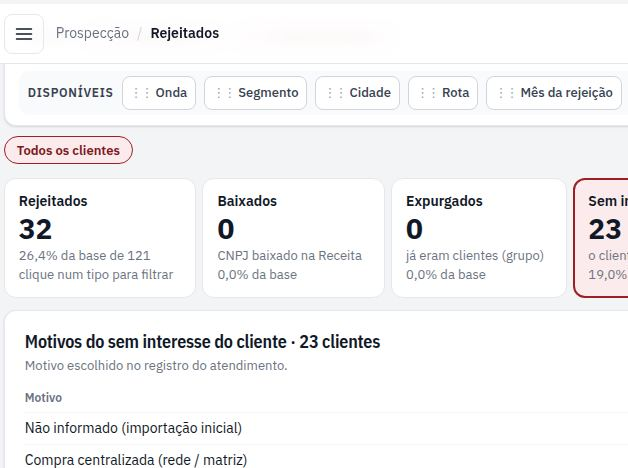
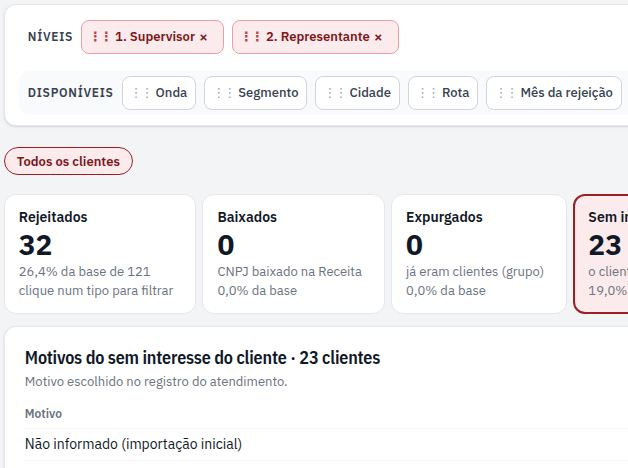
Rejeitados: tela lê só contagens, sem lista; botão Excel do que está na tela, com dados cadastrais completos e uma aba por tipo
- consultaResumoRejeitados (por chave dos níveis, tipo, motivo e mês) para a tela; detalhe só ao exportar
- Excel: rejeição, motivo, observação, data e cadastro completo (endereço, bairro, CEP, telefone, representante, supervisor...)
- Uma aba por tipo; a aba Exportar da tela Importações usa o mesmo Excel
- docs/03 §16, ajuda e testes

diff --git a/web/js/telas/rejeitados.js b/web/js/telas/rejeitados.js
@@ -1,18 +1,17 @@
 // Rejeitados: baixados, expurgados e sem interesse (do cliente e do representante), com hierarquia de níveis, motivos e
-// exportação em Excel por tipo. Só gerente e administrador. docs/03 §16
-// Lê os rejeitados e o resumo da carteira uma vez (em cache); níveis, cards, busca e exportação só redesenham no navegador.
+// o botão Excel do que está na tela. Só gerente e administrador. docs/03 §16
+// A tela lê só as contagens (por chave dos níveis, tipo, motivo e mês) e o resumo da carteira, em cache; os dados de cada
+// cliente são lidos só ao exportar.
 import { bancoApp, lerComCache } from '../db.js';
 import { consultaResumo } from '../../shared/explorar.mjs';
-import { buscarRejeitados, consultaRejeitados, contarMotivos, montarArvoreRejeitados, NIVEIS_REJEITADOS, NOME_TIPO_REJEICAO, prepararRejeitado, SELO_TIPO_REJEICAO, TIPOS_REJEICAO } from '../../shared/rejeitados.mjs';
-import { podeTela } from '../../shared/perfis.mjs';
-import { h, montar, formatar, selo, semRolagem } from '../ui.js';
-import { blocoNiveis, razaoSocial, tabelaPedidos } from './_pedidos.js';
+import { consultaResumoRejeitados, contarMotivos, montarArvoreRejeitados, naLinha, NIVEIS_REJEITADOS, NOME_TIPO_REJEICAO, prepararRejeitado, TIPOS_REJEICAO } from '../../shared/rejeitados.mjs';
+import { h, montar, formatar, comEspera, aviso, semRolagem } from '../ui.js';
+import { blocoNiveis } from './_pedidos.js';
+import { exportarRejeitados } from './_rejeitados-excel.js';
 
 const CHAVE_NIVEIS = 'germani.rejeitadosNiveis';
-const LIMITE_LISTA = 300;
 const n0 = (x) => formatar.numero(Math.round(Number(x) || 0));
 const pct = (a, b) => (b ? `${((a / b) * 100).toFixed(1).replace('.', ',')}%` : '—');
-const CLASSE_SELO = { baixado: '', expurgado: 'investimento', cliente: 'erro', representante: 'alerta' };
 const DETALHE = { baixado: 'CNPJ baixado na Receita', expurgado: 'já eram clientes (grupo)', cliente: 'o cliente recusou', representante: 'o representante não vai trabalhar' };
 
 function lerNiveis(possiveis) {
@@ -22,15 +21,19 @@ function lerNiveis(possiveis) {
 
 export async function render(conteudo, { usuario }) {
   const db = await bancoApp();
-  const [linhas, base] = (await Promise.all([lerComCache(db, consultaRejeitados(), 300), lerComCache(db, consultaResumo({ usuario }), 300)])).map((r) => r.rows);
+  const [linhas, base] = (await Promise.all([lerComCache(db, consultaResumoRejeitados(), 300), lerComCache(db, consultaResumo({ usuario }), 300)])).map((r) => r.rows);
   const clientes = linhas.map(prepararRejeitado);
   const possiveis = Object.keys(NIVEIS_REJEITADOS);
   const nome = (n) => NIVEIS_REJEITADOS[n].nome;
-  const estado = { niveis: lerNiveis(possiveis), abertos: new Set(['']), sel: '', editarNiveis: false, tipo: 'todos', busca: '' };
+  const estado = { niveis: lerNiveis(possiveis), abertos: new Set(['']), sel: '', editarNiveis: false, tipo: 'todos' };
   const area = h('div', { id: 'rejeitados', class: 'ped-exp acf-exp rej-exp' });
   const mudarNiveis = (n) => { estado.niveis = n; estado.abertos = new Set(['']); estado.sel = ''; try { localStorage.setItem(CHAVE_NIVEIS, JSON.stringify(n)); } catch { /* só nesta visita */ } desenhar(); };
-  const campoBusca = h('input', { type: 'search', id: 'busca-rejeitados', 'aria-label': 'Buscar', placeholder: 'Cliente, CNPJ, cidade ou representante',
-    oninput: () => { estado.busca = campoBusca.value; desenhar(); campoBusca.focus(); } });
+  // Excel do que está na tela: a linha escolhida na hierarquia e o tipo do card (Rejeitados = os quatro tipos, uma aba cada)
+  const botaoExcel = h('button', { type: 'button', id: 'excel-rejeitados', onclick: () => comEspera(botaoExcel, async () => {
+    const tipos = estado.tipo === 'todos' ? [...TIPOS_REJEICAO] : [estado.tipo];
+    const n = await exportarRejeitados(db, { tipos, filtro: (l) => naLinha(escolhido.caminho, l) });
+    aviso(`Excel gerado: ${n0(n)} clientes.`);
+  }) });
 
   function cards(e) {
     const c = e.cont;
@@ -71,23 +74,7 @@ export async function render(conteudo, { usuario }) {
     { cortados: '.exp-linha > .num' });
   }
 
-  // exportar fica na tela Importações (aba Exportar), junto com a base e os pedidos
-  const atalhoExportar = () => (podeTela(usuario, 'exportar')
-    ? h('p', { class: 'ajuda', id: 'rej-atalho-exportar', style: 'margin:0' }, 'Para baixar esta base em Excel, por tipo: ', h('a', { href: '#/importacoes?aba=exportar' }, 'Importações › Exportar'), '.') : null);
   let escolhido = null;
-
-  function lista(e) {
-    const vistos = buscarRejeitados(e.clientes.filter((l) => estado.tipo === 'todos' || l.tipo === estado.tipo), estado.busca)
-      .sort((a, b) => String(b.data ?? '').localeCompare(String(a.data ?? '')) || String(a.razao_social).localeCompare(String(b.razao_social), 'pt-BR'));
-    const colunas = [{ titulo: 'Razão social', valor: (l) => razaoSocial({ codigo: l.codigo_cliente_erp, razao: l.razao_social, doc: l.cnpj, prospectId: l.id }), classe: 'rz' },
-      { titulo: 'Tipo', valor: (l) => selo(SELO_TIPO_REJEICAO[l.tipo], CLASSE_SELO[l.tipo]), classe: 'cen' }, { titulo: 'Motivo', valor: (l) => l.motivo },
-      { titulo: 'Data', valor: (l) => formatar.data(l.data) || '—', classe: 'cen' }, { titulo: 'Representante', valor: (l) => [l.vendedor_codigo, l.vendedor_nome].filter(Boolean).join(' - ') },
-      { titulo: 'Cidade', valor: (l) => (l.cidade ? `${l.cidade}${l.uf ? '/' + l.uf : ''}` : '—'), classe: 'cen' }, { titulo: 'Onda', valor: (l) => l.onda || '—', classe: 'cen' }];
-    return h('div', { class: 'cartao' },
-      h('div', { class: 'ped-lista-topo' }, h('h2', { id: 'titulo-rejeitados' }, `${estado.tipo === 'todos' ? 'Todos os rejeitados' : NOME_TIPO_REJEICAO[estado.tipo]} · ${e.rotulo} (${n0(vistos.length)})`), campoBusca),
-      tabelaPedidos(colunas, vistos.slice(0, LIMITE_LISTA), { id: 'lista-rejeitados', vazio: estado.busca ? `Nada encontrado para "${estado.busca}".` : 'Nenhum cliente aqui.' }),
-      vistos.length > LIMITE_LISTA ? h('p', { class: 'ajuda', style: 'margin:12px 0 0' }, `Mostrando ${n0(LIMITE_LISTA)} de ${n0(vistos.length)}. Escolha uma linha na hierarquia para ver menos, ou exporte.`) : null);
-  }
 
   function desenhar() {
     const arvore = montarArvoreRejeitados({ clientes, base, niveis: estado.niveis, abertos: estado.abertos });
@@ -96,7 +83,11 @@ export async function render(conteudo, { usuario }) {
     const migalhas = h('nav', { class: 'exp-caminho', 'aria-label': 'Linha escolhida' }, etapas.flatMap((n, i) => [
       h('button', { type: 'button', class: n.caminho === escolhido.caminho ? 'atual' : '', title: n.rotulo, onclick: () => { estado.sel = n.caminho; desenhar(); } }, n.profundidade ? `${nome(n.nivel)}: ${n.rotulo}` : n.rotulo),
       i < etapas.length - 1 ? h('span', { class: 'sep', 'aria-hidden': 'true' }, '›') : null]));
-    montar(area, ...blocoNiveis({ estado, possiveis, nome, mudarNiveis, desenhar }), migalhas, cards(escolhido), motivos(escolhido), arvoreNaTela(arvore, escolhido), atalhoExportar(), lista(escolhido));
+    const qtd = estado.tipo === 'todos' ? escolhido.cont.total : escolhido.cont[estado.tipo];
+    botaoExcel.disabled = !qtd;
+    botaoExcel.textContent = `Excel · ${n0(qtd)} ${qtd === 1 ? 'cliente' : 'clientes'}`;
+    botaoExcel.title = `${estado.tipo === 'todos' ? 'Os quatro tipos, uma aba cada' : NOME_TIPO_REJEICAO[estado.tipo]} · ${escolhido.rotulo}`;
+    montar(area, ...blocoNiveis({ estado, possiveis, nome, mudarNiveis, desenhar }), h('div', { class: 'rej-barra' }, migalhas, botaoExcel), cards(escolhido), motivos(escolhido), arvoreNaTela(arvore, escolhido));
   }
 
   desenhar();

diff --git a/web/js/telas/exportar.js b/web/js/telas/exportar.js
@@ -2,7 +2,8 @@
 // Cada exportação lê o banco só ao clicar. docs/03 §17
 import { bancoApp, lerComCache } from '../db.js';
 import { consultaExportarBase } from '../../shared/administracao.mjs';
-import { consultaRejeitados, NOME_TIPO_REJEICAO, paraExportar, prepararRejeitado, TIPOS_REJEICAO } from '../../shared/rejeitados.mjs';
+import { consultaResumoRejeitados, NOME_TIPO_REJEICAO, prepararRejeitado, TIPOS_REJEICAO } from '../../shared/rejeitados.mjs';
+import { exportarRejeitados } from './_rejeitados-excel.js';
 import { consultaPedidos, rotuloRepresentante } from '../../shared/pedidos.mjs';
 import { hojeSaoPaulo } from '../../shared/datas.mjs';
 import { h, montar, formatar, comEspera, aviso } from '../ui.js';
@@ -13,39 +14,30 @@ const n0 = (x) => formatar.numero(Math.round(Number(x) || 0));
 const representante = (codigo, nome) => [codigo, nome].filter(Boolean).join(' - ');
 const NOME_TIPO_PEDIDO = { venda: 'Venda', investimento: 'Bonificação', ignorar: 'Não considerado' };
 
-/** Colunas do Excel de rejeitados (também usadas pela tela Rejeitados para contar). */
-export const COLUNAS_REJEITADOS = [
-  { titulo: 'Tipo', valor: (l) => NOME_TIPO_REJEICAO[l.tipo], largura: 30 }, { titulo: 'Motivo', valor: (l) => l.motivo, largura: 40 }, { titulo: 'Data', valor: (l) => formatar.data(l.data), largura: 12 },
-  { titulo: 'Código', valor: (l) => l.codigo_cliente_erp ?? '', largura: 10 }, { titulo: 'Razão social', valor: (l) => l.razao_social, largura: 40 }, { titulo: 'CNPJ', valor: (l) => documento(l.cnpj), largura: 20 },
-  { titulo: 'Telefone', valor: (l) => l.telefone ?? '', largura: 16 }, { titulo: 'Cidade', valor: (l) => l.cidade, largura: 22 }, { titulo: 'UF', valor: (l) => l.uf, largura: 6 },
-  { titulo: 'Onda', valor: (l) => l.onda, largura: 8 }, { titulo: 'Segmento', valor: (l) => l.tipologia_gtm, largura: 22 },
-  { titulo: 'Representante', valor: (l) => representante(l.vendedor_codigo, l.vendedor_nome), largura: 30 }, { titulo: 'Supervisor', valor: (l) => l.supervisor_nome ?? '', largura: 24 },
-];
-
 export async function render(conteudo, { usuario }) {
   const db = await bancoApp();
-  const clientes = (await lerComCache(db, consultaRejeitados(), 300)).rows.map(prepararRejeitado);
+  // contagens para os tipos e os filtros (leitura leve); os dados de cada cliente são lidos só ao exportar
+  const clientes = (await lerComCache(db, consultaResumoRejeitados(), 300)).rows.map(prepararRejeitado);
   const filtro = { tipos: new Set(TIPOS_REJEICAO), supervisor: '', representante: '', onda: '' };
   const unicos = (chave, rotulo) => [...new Map(clientes.filter((l) => l[chave] != null && l[chave] !== '').map((l) => [String(l[chave]), rotulo(l)])).entries()].sort((a, b) => a[1].localeCompare(b[1], 'pt-BR', { numeric: true }));
   const selecao = (id, rotulo, chave, opcoes, todos) => h('div', { class: 'campo' }, h('label', { for: id }, rotulo),
     h('select', { id, onchange: (ev) => { filtro[chave] = ev.target.value; desenharRejeitados(); } }, h('option', { value: '' }, todos), opcoes.map(([v, t]) => h('option', { value: v }, t))));
-  const filtrados = () => paraExportar(clientes, [...filtro.tipos]).filter((l) => (!filtro.supervisor || String(l.supervisor_id) === filtro.supervisor)
-    && (!filtro.representante || String(l.vendedor_id) === filtro.representante) && (!filtro.onda || l.onda === filtro.onda));
+  const passa = (l) => (!filtro.supervisor || String(l.supervisor_id) === filtro.supervisor) && (!filtro.representante || String(l.vendedor_id) === filtro.representante) && (!filtro.onda || l.onda === filtro.onda);
+  const soma = (ls) => ls.reduce((t, l) => t + l.qtd, 0);
 
   // Rejeitados: um ou mais tipos, com supervisor, representante e onda
   const tiposRej = h('div', { class: 'rej-tipos' });
+  // dados cadastrais completos, tipo, motivo e observação; com mais de um tipo, uma aba para cada
   const botaoRej = h('button', { type: 'button', id: 'exportar-rejeitados', onclick: () => comEspera(botaoRej, async () => {
-    const lista = filtrados();
-    await baixarXlsx(`rejeitados-${hojeSaoPaulo()}.xlsx`, COLUNAS_REJEITADOS, lista, { aba: 'Rejeitados' });
-    aviso(`Rejeitados exportados: ${n0(lista.length)} clientes.`);
+    const n = await exportarRejeitados(db, { tipos: TIPOS_REJEICAO.filter((t) => filtro.tipos.has(t)), filtro: passa });
+    aviso(`Rejeitados exportados: ${n0(n)} clientes.`);
   }) });
   function desenharRejeitados() {
-    const contar = (t) => clientes.filter((l) => l.tipo === t && (!filtro.supervisor || String(l.supervisor_id) === filtro.supervisor)
-      && (!filtro.representante || String(l.vendedor_id) === filtro.representante) && (!filtro.onda || l.onda === filtro.onda)).length;
+    const contar = (t) => soma(clientes.filter((l) => l.tipo === t && passa(l)));
     montar(tiposRej, TIPOS_REJEICAO.map((t) => h('label', { class: 'ped-opcao' },
       h('input', { type: 'checkbox', dados: { tipo: t }, checked: filtro.tipos.has(t), onchange: (ev) => { if (ev.target.checked) filtro.tipos.add(t); else filtro.tipos.delete(t); desenharRejeitados(); } }),
       h('span', {}, `${NOME_TIPO_REJEICAO[t]} (${n0(contar(t))})`))));
-    const total = filtrados().length;
+    const total = soma(clientes.filter((l) => filtro.tipos.has(l.tipo) && passa(l)));
     botaoRej.disabled = !total;
     botaoRej.textContent = `Exportar Excel · ${n0(total)} clientes`;
   }
@@ -79,7 +71,7 @@ export async function render(conteudo, { usuario }) {
 
   montar(conteudo,
     h('section', { class: 'cartao exp-bloco', id: 'exportar-bloco-rejeitados' }, h('h2', {}, 'Rejeitados'),
-      h('p', { class: 'ajuda' }, 'Clientes que saíram da prospecção, por tipo. Marque um ou mais.'), tiposRej,
+      h('p', { class: 'ajuda' }, 'Clientes que saíram da prospecção, com os dados cadastrais completos, o motivo e a observação. Marque um ou mais tipos: cada tipo vai numa aba da planilha.'), tiposRej,
       h('div', { class: 'exp-filtros' },
         selecao('exportar-supervisor', 'Supervisor', 'supervisor', unicos('supervisor_id', (l) => l.supervisor_nome ?? '—'), 'Todos'),
         selecao('exportar-representante', 'Representante', 'representante', unicos('vendedor_id', (l) => representante(l.vendedor_codigo, l.vendedor_nome)), 'Todos'),

diff --git a/web/js/telas/_rejeitados-excel.js b/web/js/telas/_rejeitados-excel.js
@@ -1,0 +1,33 @@
+// Excel dos rejeitados (tela Rejeitados e aba Exportar): dados cadastrais completos, o tipo, o motivo e a observação do
+// registro, numa aba por tipo (Sem interesse do cliente numa aba, do representante em outra…). Lê o detalhe só ao exportar.
+import { lerComCache } from '../db.js';
+import { consultaRejeitados, NOME_TIPO_REJEICAO, paraExportar, prepararRejeitado, TIPOS_REJEICAO } from '../../shared/rejeitados.mjs';
+import { hojeSaoPaulo } from '../../shared/datas.mjs';
+import { formatar } from '../ui.js';
+import { baixarXlsxAbas } from '../planilhas.js';
+import { documento } from './_pedidos.js';
+
+const representante = (codigo, nome) => [codigo, nome].filter(Boolean).join(' - ');
+const COLUNAS = [
+  { titulo: 'Rejeição', valor: (l) => NOME_TIPO_REJEICAO[l.tipo], largura: 30 }, { titulo: 'Motivo', valor: (l) => l.motivo, largura: 40 },
+  { titulo: 'Observação', valor: (l) => l.observacao ?? '', largura: 40 }, { titulo: 'Data', valor: (l) => formatar.data(l.data), largura: 12 },
+  { titulo: 'Código', valor: (l) => l.codigo_cliente_erp ?? '', largura: 10 }, { titulo: 'Razão social', valor: (l) => l.razao_social, largura: 40 },
+  { titulo: 'Nome fantasia', valor: (l) => l.nome_fantasia ?? '', largura: 30 }, { titulo: 'CNPJ', valor: (l) => documento(l.cnpj), largura: 20 },
+  { titulo: 'Endereço', valor: (l) => l.endereco ?? '', largura: 40 }, { titulo: 'Bairro', valor: (l) => l.bairro ?? '', largura: 22 },
+  { titulo: 'Cidade', valor: (l) => l.cidade, largura: 22 }, { titulo: 'UF', valor: (l) => l.uf, largura: 6 }, { titulo: 'CEP', valor: (l) => l.cep ?? '', largura: 10 },
+  { titulo: 'Telefone', valor: (l) => l.telefone ?? '', largura: 16 }, { titulo: 'Segmento', valor: (l) => l.tipologia_gtm, largura: 22 },
+  { titulo: 'Onda', valor: (l) => l.onda, largura: 8 }, { titulo: 'Rota', valor: (l) => l.rota, largura: 10 }, { titulo: 'Subrota', valor: (l) => l.subrota, largura: 10 },
+  { titulo: 'Representante', valor: (l) => representante(l.vendedor_codigo, l.vendedor_nome), largura: 32 }, { titulo: 'Supervisor', valor: (l) => l.supervisor_nome ?? '', largura: 24 },
+  { titulo: 'Tentativas', valor: (l) => Number(l.tentativas ?? 0), largura: 11 }, { titulo: '1º contato', valor: (l) => formatar.data(l.dt_primeiro_contato), largura: 12 },
+];
+/** Nome da aba de cada tipo (até 31 letras). */
+const ABA = { baixado: 'Baixados', expurgado: 'Expurgados', cliente: 'Sem interesse do cliente', representante: 'Sem interesse do representante' };
+
+/** Lê o detalhe dos rejeitados (em cache) e baixa o Excel dos tipos marcados que passam em `filtro(l)`: uma aba por tipo. Devolve quantos foram. */
+export async function exportarRejeitados(db, { tipos, filtro = () => true }) {
+  const todos = (await lerComCache(db, consultaRejeitados(), 300)).rows.map(prepararRejeitado).filter(filtro);
+  const lista = paraExportar(todos, tipos);
+  const abas = TIPOS_REJEICAO.filter((t) => tipos.includes(t)).map((t) => ({ nome: ABA[t], colunas: COLUNAS, linhas: lista.filter((l) => l.tipo === t) }));
+  await baixarXlsxAbas(`rejeitados-${hojeSaoPaulo()}.xlsx`, abas);
+  return lista.length;
+}

diff --git a/web/js/planilhas.js b/web/js/planilhas.js
@@ -23,14 +23,21 @@ export function bibliotecasPlanilha() {
 }
 
 /** Gera e baixa um .xlsx (uma aba, cabeçalho em negrito, colunas com largura). colunas: [{ titulo, valor(linha), largura? }]. */
-export async function baixarXlsx(nomeArquivo, colunas, linhas, { aba = 'Dados' } = {}) {
+export function baixarXlsx(nomeArquivo, colunas, linhas, { aba = 'Dados' } = {}) {
+  return baixarXlsxAbas(nomeArquivo, [{ nome: aba, colunas, linhas }]);
+}
+
+/** Um .xlsx com várias abas: [{ nome, colunas, linhas }], cada uma com cabeçalho em negrito, congelado e com filtro. */
+export async function baixarXlsxAbas(nomeArquivo, abas) {
   const { ExcelJS } = await bibliotecasPlanilha();
   const livro = new ExcelJS.Workbook();
-  const folha = livro.addWorksheet(aba, { views: [{ state: 'frozen', ySplit: 1 }] });
-  folha.columns = colunas.map((c) => ({ header: c.titulo, width: c.largura ?? 18 }));
-  folha.getRow(1).font = { bold: true };
-  for (const l of linhas) folha.addRow(colunas.map((c) => c.valor(l) ?? ''));
-  folha.autoFilter = { from: { row: 1, column: 1 }, to: { row: 1, column: colunas.length } };
+  for (const { nome, colunas, linhas } of abas) {
+    const folha = livro.addWorksheet(nome.slice(0, 31), { views: [{ state: 'frozen', ySplit: 1 }] });   // o Excel aceita até 31 letras no nome da aba
+    folha.columns = colunas.map((c) => ({ header: c.titulo, width: c.largura ?? 18 }));
+    folha.getRow(1).font = { bold: true };
+    for (const l of linhas) folha.addRow(colunas.map((c) => c.valor(l) ?? ''));
+    folha.autoFilter = { from: { row: 1, column: 1 }, to: { row: 1, column: colunas.length } };
+  }
   const bytes = await livro.xlsx.writeBuffer();
   const url = URL.createObjectURL(new Blob([bytes], { type: 'application/vnd.openxmlformats-officedocument.spreadsheetml.sheet' }));
   const a = document.createElement('a');

diff --git a/web/css/app.css b/web/css/app.css
@@ -967,3 +967,5 @@ button.chip-situacao.ativa:hover { background: var(--destaque-claro); color: var
 .exp-filtros .campo { margin: 0; } .exp-filtros select { min-width: 180px; }
 .exp-filtros button { margin-left: auto; }
 .imp-extra summary { cursor: pointer; font-weight: 600; min-height: 32px; } .imp-extra[open] summary { margin-bottom: 12px; }
+.rej-barra { display: flex; flex-wrap: wrap; gap: 8px 12px; align-items: center; justify-content: space-between; margin-bottom: 12px; }
+.rej-barra .exp-caminho { margin: 0; }

diff --git a/docs/03-regras-negocio.md b/docs/03-regras-negocio.md
@@ -623,8 +623,13 @@ base que saíram da prospecção, por tipo:
   Rejeitados e % da base. Pelo mês da rejeição não há Na base (a base não tem mês).
 - **Cards** filtram por tipo. Os **motivos** aparecem só com Sem interesse do cliente ou do representante escolhido; baixado e
   expurgado não mostram motivos, para não confundir a leitura.
-- **Exportar Excel**: um ou mais tipos marcados, da linha escolhida na hierarquia. Colunas: tipo, motivo, data, código, razão
-  social, CNPJ, telefone, cidade, UF, onda, segmento, representante e supervisor.
+- **Leitura:** a tela lê só as **contagens** (por chave dos níveis, tipo, motivo e mês, `consultaResumoRejeitados`), sem os dados
+  de cada cliente, e não tem lista embaixo. Os dados de cada cliente (`consultaRejeitados`) são lidos só ao exportar.
+- **Botão Excel** (ao lado do caminho): baixa o que está na tela — a linha escolhida na hierarquia e o tipo do card
+  (Rejeitados = os quatro). **Uma aba por tipo** (Baixados, Expurgados, Sem interesse do cliente, Sem interesse do representante),
+  com os dados cadastrais completos: rejeição, motivo, observação do registro, data, código, razão social, nome fantasia, CNPJ,
+  endereço, bairro, cidade, UF, CEP, telefone, segmento, onda, rota, subrota, representante, supervisor, tentativas e 1º contato.
+  O mesmo Excel sai da aba Exportar da tela Importações (§17), com filtro de supervisor, representante e onda.
 - Com a 0025, o sem interesse do representante **não vai mais para o E-commerce**: o cliente fica com o dono da carteira e sai
   por esta tela.
 
